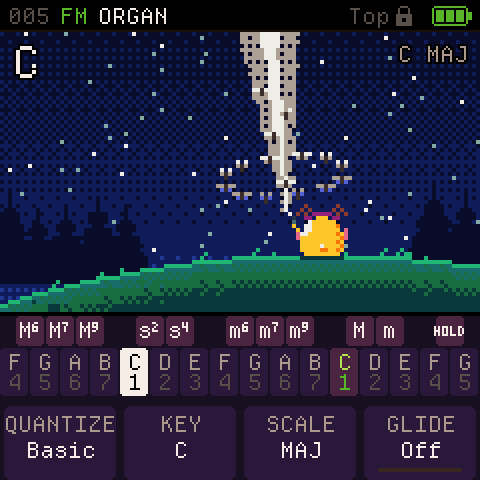
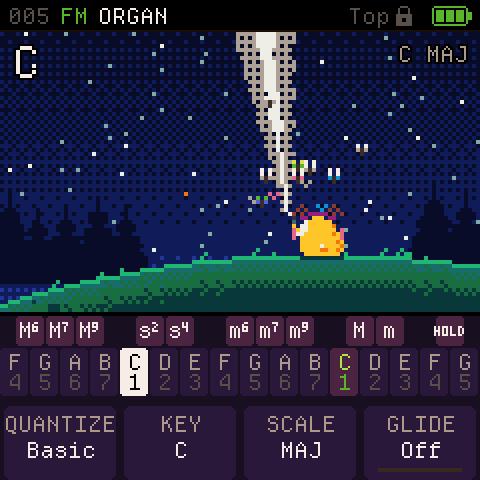
README: new screenshots and GIFs of the current firmware
CHORD, ARPEGGIO and the FM editor showed CoralFlower's plant behind them;
they are retaken over the moose's night scene. HOME, the Side layout and
the two GIFs are redrawn with the layered butterflies and the Sornyak
growing from a sprout. The text says so, and describes the start.

Claude-Session: https://claude.ai/code/session_01WB3wbALiLSFh3yuDdQajbv

Changed region(s): [[0.4375, 0.0625, 0.7812, 0.5], [0.4688, 0.0625, 0.5, 0.125]]

diff --git a/README.md b/README.md
@@ -11,8 +11,8 @@ you play becomes a whole chord, with a bass underneath. While you play, a small 
 Sornyak is inspired by the Telepathic Instruments Orchid. Its controls are redesigned for the FM-1's keys and
 buttons, because every instrument is played differently.
 
-<p align="center"><img src="docs/images/grow.gif" width="480" alt="A small yellow moose on a night hill shines a torch into the sky while rings of butterflies circle it, one more ring for each track recorded"></p>
-<p align="center"><img src="docs/images/sornyak.gif" width="480" alt="The Sornyak growing a tier for each of three tracks and shining with the fourth; butterflies circle its top while someone plays live"></p>
+<p align="center"><img src="docs/images/grow.gif" width="480" alt="A small yellow moose on a night hill shines a torch into the sky while butterflies gather round it in a loose cloud, more for each track recorded"></p>
+<p align="center"><img src="docs/images/sornyak.gif" width="480" alt="The Sornyak growing from a sprout, a tier for each of three tracks, shining with the fourth; butterflies wander round its top while someone plays live"></p>
 
 Sornyak has no published release or installer site yet. Until it does, build it yourself (below); the browser
 version and the installer of [CoralFlower's site](https://ficusficusov.github.io/CoralFlower/) run CoralFlower, not
@@ -39,16 +39,20 @@ Sornyak.
   change slowly on their own. Chords and basses have separate lists. Every sound has an editor, and you can save your
   own.
 - **The torch** (the Top layout). A small round yellow moose sits on a hill at night and shines a torch into the
-  stars; the beam swings slowly and moths drift up it. Butterflies circle the moose: one ring, and one more for each
-  track of the playing pattern that has something recorded. They flap and circle faster when the music is loud,
-  and every note makes some of them flash.
+  stars; the beam swings slowly and moths drift up it. Butterflies wander round it in a loose cloud, near and far,
+  more of them for each track of the playing pattern that has something recorded. Their wings beat on the beat, the
+  cloud lifts on the first beat of each bar, and they settle in the grass when the music stops. Every note makes some
+  of them flash, and the moose nods along.
 - **The Sornyak** (the Side layout). A pale weed in tiers grows on a night meadow while the music plays: one tier for
   each of the first three tracks of the playing pattern that have something recorded, and with the fourth the crown
   shines over the whole sky. When it falls quiet, it shrinks back to a small sprout. On the beat it sways, dips and
   stretches with the loudness, and its crown and caps turn round once a bar. Its light follows the sound: the rays and the halo breathe with the loudness, a strong chord flashes
   the sky, and every note lights a bud. When you play live over the pattern (the fifth instrument), butterflies come
-  and circle the top of the Sornyak at the song's tempo; the reverb scatters them. A small round yellow moose with
+  and wander round the top of the Sornyak at the song's tempo; the reverb scatters them. A small round yellow moose with
   headphones sits in the grass and listens.
+- **The start.** A comet falls into the meadow and leaves a glowing crater, and the title drops in letter by letter
+  with a sound of its own (GLOBAL > Display > BOOT SND turns it off). The interface colours to choose from follow
+  the title's letters.
 - **Live over a pattern.** While a pattern plays, HOME's keys and PRESETS play a sound of their own on the Layer, so
   the pattern's chords keep theirs; REC there records you into the pattern's Layer track.
 - **MIDI over USB.** The chords, the bass and the sequencer's Layer and Drums go out on four channels you set. The
@@ -57,7 +61,7 @@ Sornyak.
 <table>
   <tr>
     <td><img src="docs/images/home.png" width="260" alt="HOME: the chord name above the moose with its torch"></td>
-    <td><img src="docs/images/sornyak.png" width="260" alt="The Side layout: the Sornyak with two tracks recorded, a small yellow moose listening"></td>
+    <td><img src="docs/images/sornyak.png" width="260" alt="The Side layout: the Sornyak swaying and shining while a pattern plays, a small yellow moose listening"></td>
     <td><img src="docs/images/chord.png" width="260" alt="CHORD: a chord button's notes on a piano"></td>
   </tr>
   <tr>
